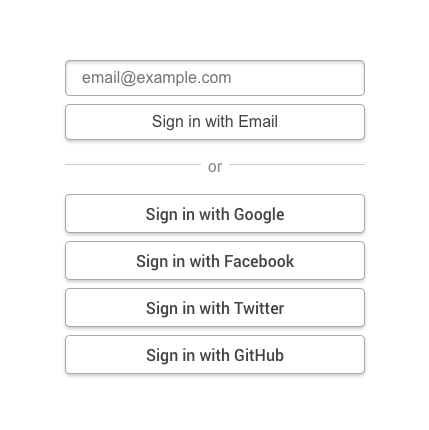
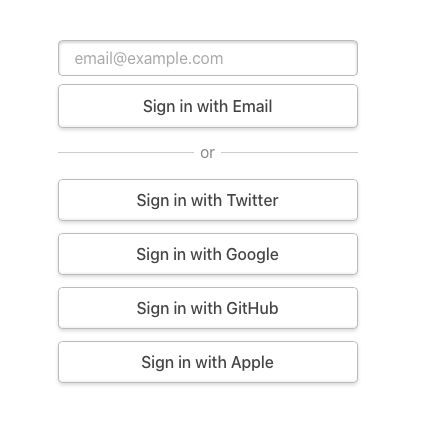
Improve built-in pages on mobile
Resolves #231 for now.

I think there is stil room for improvement, but these tweaks will do for now I think.

Changed region(s): [[0.1212, 0.4535, 0.8485, 0.907], [0.1212, 0.0907, 0.8485, 0.4233], [0.8182, 0.4233, 0.8485, 0.4535]]

diff --git a/src/server/pages/error.js b/src/server/pages/error.js
@@ -18,19 +18,18 @@ export default ({ site, error, baseUrl }) => {
       message =
         <div>
           <div className='message'>
-            <p>Something went wrong trying to sign in.</p>
-            <p>Try signing in with a different account.</p>
+            <p>Try signing with a different account.</p>
           </div>
           <p><a className='button' href={signinPageUrl}>Sign in</a></p>
         </div>
       break
     case 'OAuthAccountNotLinked':
-      heading = <h1>Sign in with another account</h1>
+      heading = <h1>Sign in failed</h1>
       message =
         <div>
           <div className='message'>
             <p>An account associated with your email address already exists.</p>
-            <p>Sign in the same account you used originally to confirm your identity.</p>
+            <p>Sign in with the same account you used originally to confirm your identity.</p>
           </div>
           <p><a className='button' href={signinPageUrl}>Sign in</a></p>
         </div>
@@ -43,14 +42,14 @@ export default ({ site, error, baseUrl }) => {
       message =
         <div>
           <div className='message'>
-            <p>Unable to send email to your address.</p>
-            <p>Try signing in again with a different account.</p>
+            <p>Unable to send email.</p>
+            <p>Try signing in with a different account.</p>
           </div>
           <p><a className='button' href={signinPageUrl}>Sign in</a></p>
         </div>
       break
     case 'Configuration':
-      heading = <h1>Server configuration error</h1>
+      heading = <h1>Server error</h1>
       message =
         <div>
           <div className='message'>
@@ -64,7 +63,7 @@ export default ({ site, error, baseUrl }) => {
       message =
         <div>
           <div className='message'>
-            <p>Your account does not have permission to sign in.</p>
+            <p>You do not have permission to sign in.</p>
             <p><a className='button' href={signinPageUrl}>Sign in</a></p>
           </div>
         </div>

diff --git a/src/css/index.css b/src/css/index.css
@@ -1,8 +1,9 @@
 :root {
   --color-primary: #444;
-  --color-control-border: #aaa;
+  --color-control-border: #bbb;
   --color-button-hover-background: #f9f9f9;
-  --color-button-active-background: #f1f1f1;
+  --color-button-active-background: #f5f5f5;
+  --color-button-active-border: #aaa;
   --border-width: 1px;
   --border-radius: .3rem;
 }
@@ -14,7 +15,9 @@ body {
 }
 
 h1 {
-  font-weight: 300;
+  font-weight: 400;
+  margin-bottom: 1.5rem;
+  padding: 0 1rem;
 }
 
 form {
@@ -39,14 +42,15 @@ input[type="text"] {
 }
 
 p {
-  margin: 0 0 1rem 0;
-  padding: 0;
-  font-size: 1rem;
+  margin: 0 0 1.5rem 0;
+  padding: 0 1rem;
+  font-size: 1.1rem;
+  line-height: 2rem;
 }
 
 a.button {
   text-decoration: none;
-
+  line-height: 1rem;
   &:link,
   &:visited {
     background-color: #fff;
@@ -56,15 +60,15 @@ a.button {
 
 button,
 a.button {
-  margin: 0;
-  padding: .5rem 1rem;
+  margin: 0 0 .75rem 0;
+  padding: .75rem 1rem;
   border: var(--border-width) solid var(--color-control-border);
   color: var(--color-primary);
   background-color: #fff;
   font-size: 1rem;
   border-radius: var(--border-radius);
   transition: all .1s ease-in-out;  
-  box-shadow: 0 .1rem .2rem rgba(0,0,0,.2);
+  box-shadow: 0 0.15rem 0.3rem rgba(0,0,0,.15), inset 0 .1rem .2rem #fff, inset 0 -.1rem .1rem rgba(0,0,0,.05);
   font-weight: 500;
   position: relative;
 
@@ -74,7 +78,9 @@ a.button {
   }
   
   &:active {
+    box-shadow: 0 0.15rem 0.3rem rgba(0,0,0,.15), inset 0 .1rem .2rem #fff, inset 0 -.1rem .1rem rgba(0,0,0,.1);
     background-color: var(--color-button-active-background);
+    border-color: var(--color-button-active-border);
     cursor: pointer;
   }
 }
@@ -115,12 +121,14 @@ a.site {
 }
 
 .signin {
-  a.button,
   button,
+  a.button,
   input[type="text"] {
-    margin: 0 auto 0 auto;
+    margin-left: auto;
+    margin-right: auto;
     display: block;
   }
+
   hr {
     display: block;
     border: 0;
@@ -150,4 +158,3 @@ a.site {
     max-width: 300px;
   }
 }
-

diff --git a/src/server/pages/signout.js b/src/server/pages/signout.js
@@ -4,6 +4,7 @@ import render from 'preact-render-to-string'
 export default ({ baseUrl, csrfToken }) => {
   return render(
     <div className='signout'>
+      <h1>Are you sure you want to sign out?</h1>
       <form action={`${baseUrl}/signout`} method='POST'>
         <input type='hidden' name='csrfToken' value={csrfToken} />
         <button type='submit'>Sign out</button>
